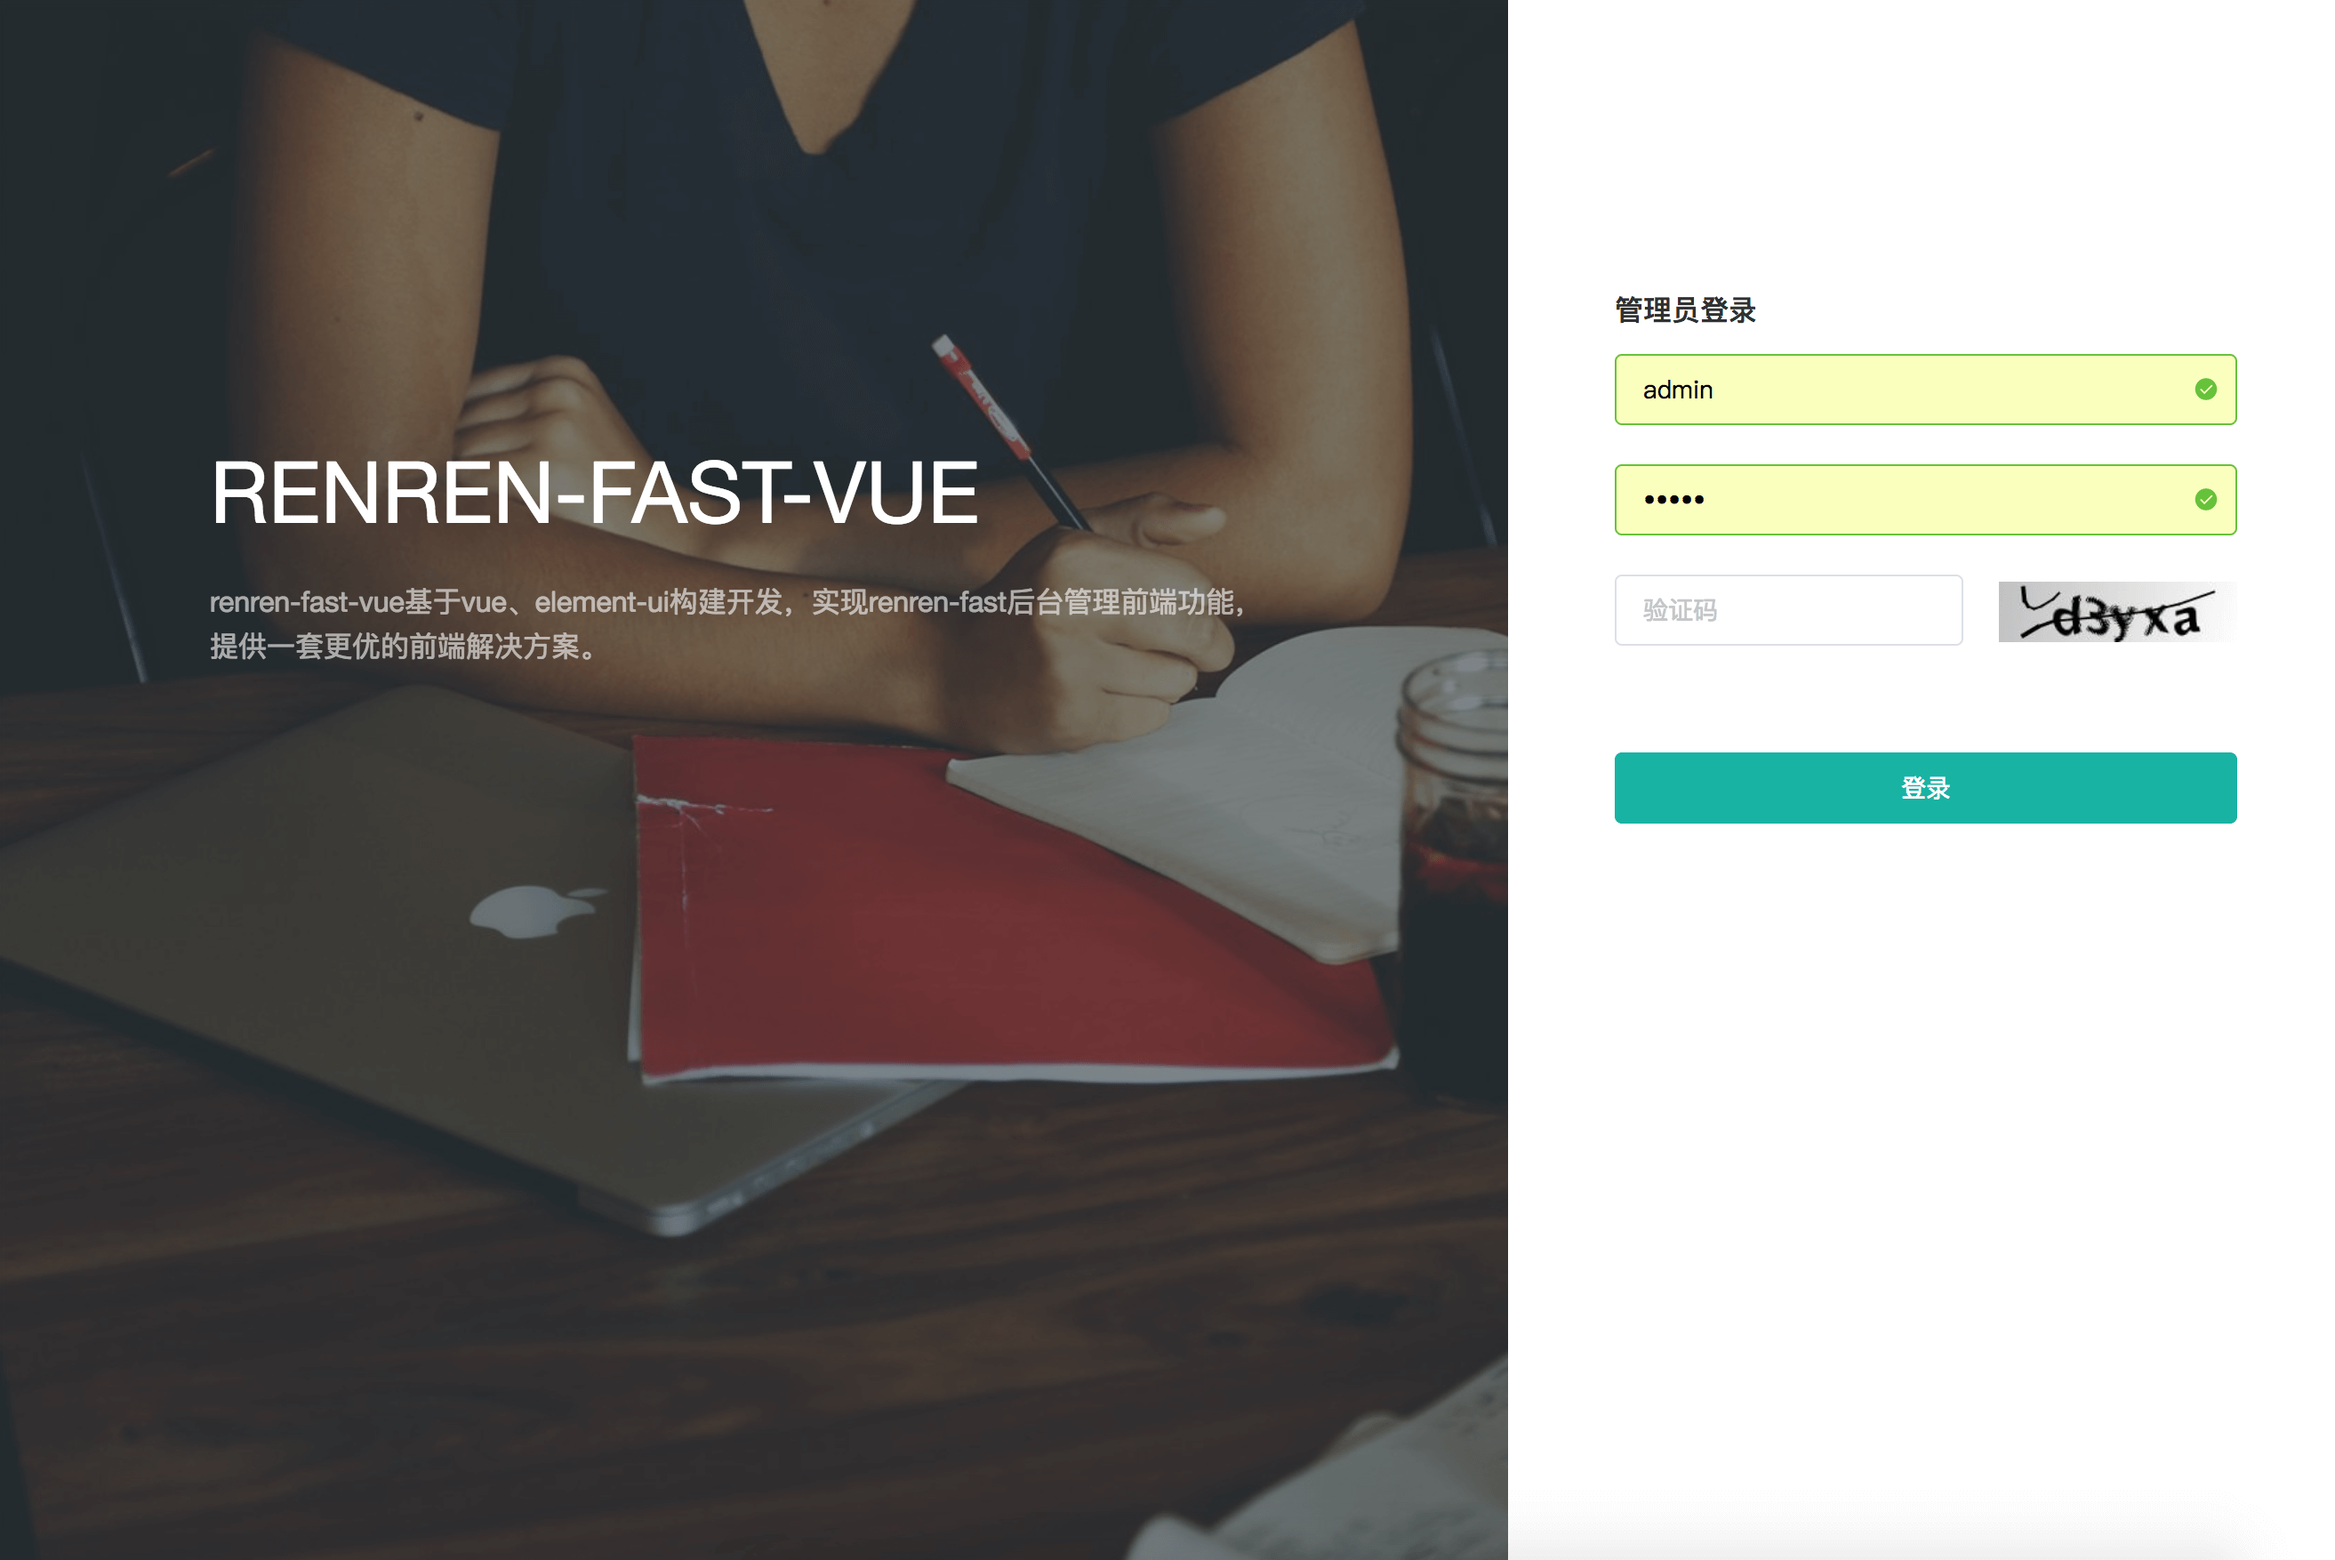
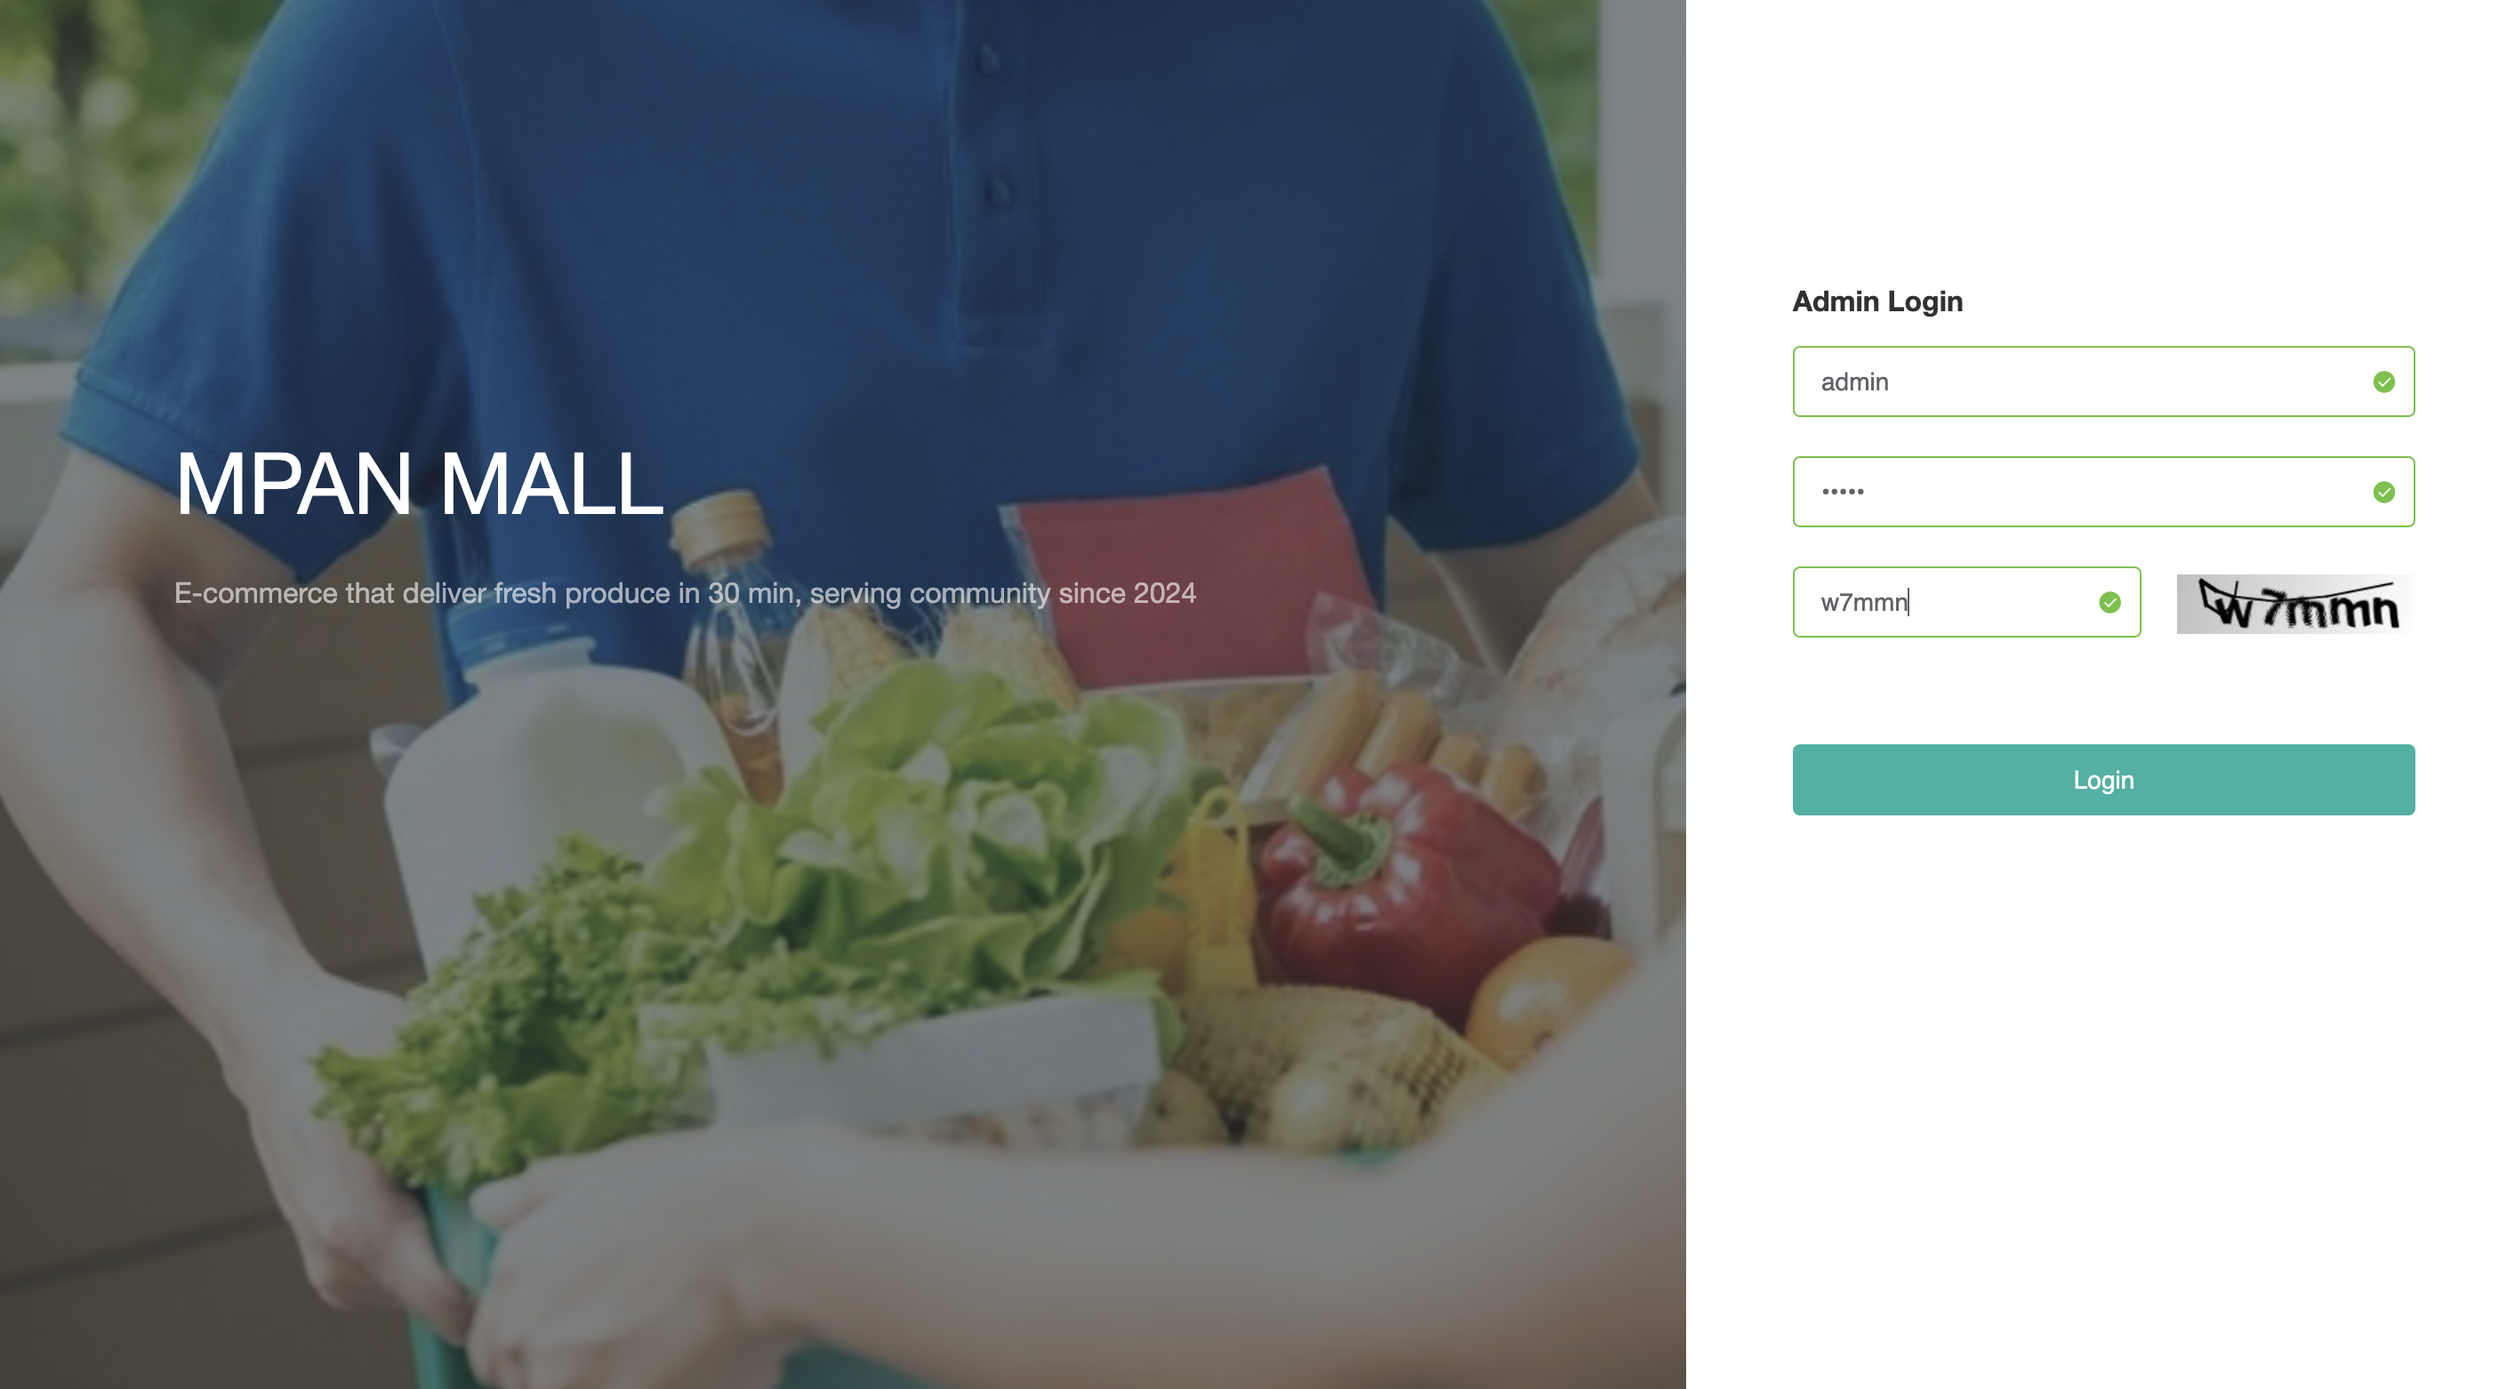
modification as made to the introduction

diff --git a/src/views/common/home.vue b/src/views/common/home.vue
@@ -18,11 +18,6 @@
       <li>代码生成器：<a href="https://gitee.com/renrenio/renren-generator" target="_blank">https://gitee.com/renrenio/renren-generator</a></li>
       <li>如需关注项目最新动态，请Watch、Star项目，同时也是对项目最好的支持</li>
     </ul>
-    <h3>官方QQ群</h3>
-    <ul>
-      <li>高级群：324780204(大牛云集，跟大牛学习新技能)</li>
-      <li>普通群：145799952(学习交流，互相解答各种疑问)</li>
-    </ul>
   </div>
 </template>
 

diff --git a/README.md b/README.md
@@ -1,14 +1,13 @@
-#### 为了更好的服务国内用户，renren-fast-vue仓库已迁移到Gitee，新的仓库地址 https://gitee.com/renrenio/renren-ui ，以后会在 https://gitee.com/renrenio/renren-ui 里面进行更新维护，感谢支持！ :smiley: 
-<br> 
 
-## renren-fast-vue
-- renren-fast-vue基于vue、element-ui构建开发，实现[renren-fast](https://gitee.com/renrenio/renren-fast)后台管理前端功能，提供一套更优的前端解决方案
-- 前后端分离，通过token进行数据交互，可独立部署
+
+## mpanmall-vue
+- mpanmall-vue project is developed based on vue, element-ui and open source framework，it provides front end user interface for admin to manage MPan Mall back system such as product management system, order management system etc.
+- Frontend-Backend Separation，communicate via token, can be deployed independently
 - 主题定制，通过scss变量统一一站式定制
 - 动态菜单，通过菜单管理统一管理访问路由
 - 数据切换，通过mock配置对接口数据／mock模拟数据进行切换
 - 发布时，可动态配置CDN静态资源／切换新旧版本
-- 演示地址：[http://demo.open.renren.io/renren-fast](http://demo.open.renren.io/renren-fast) (账号密码：admin/admin)
+
 
 ![输入图片说明](https://images.gitee.com/uploads/images/2019/0305/133529_ff15f192_63154.png "01.png")
 ![输入图片说明](https://images.gitee.com/uploads/images/2019/0305/133537_7a1b2d85_63154.png "02.png")
